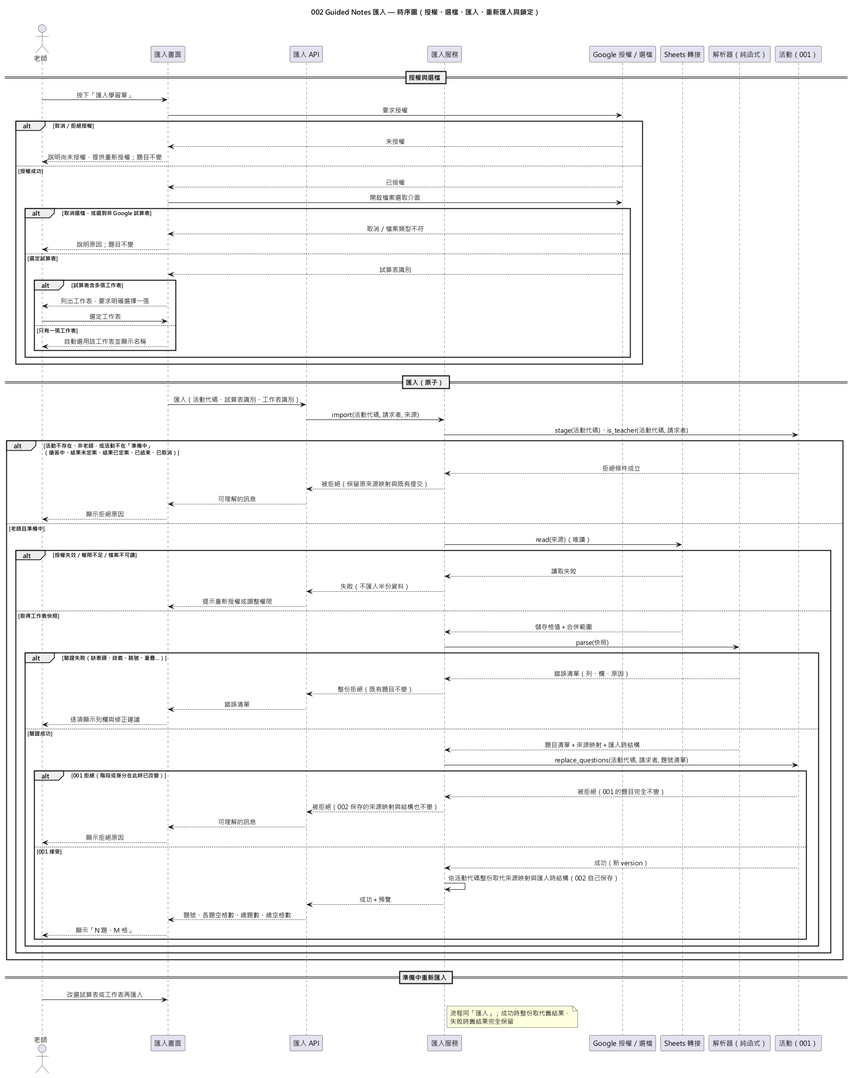
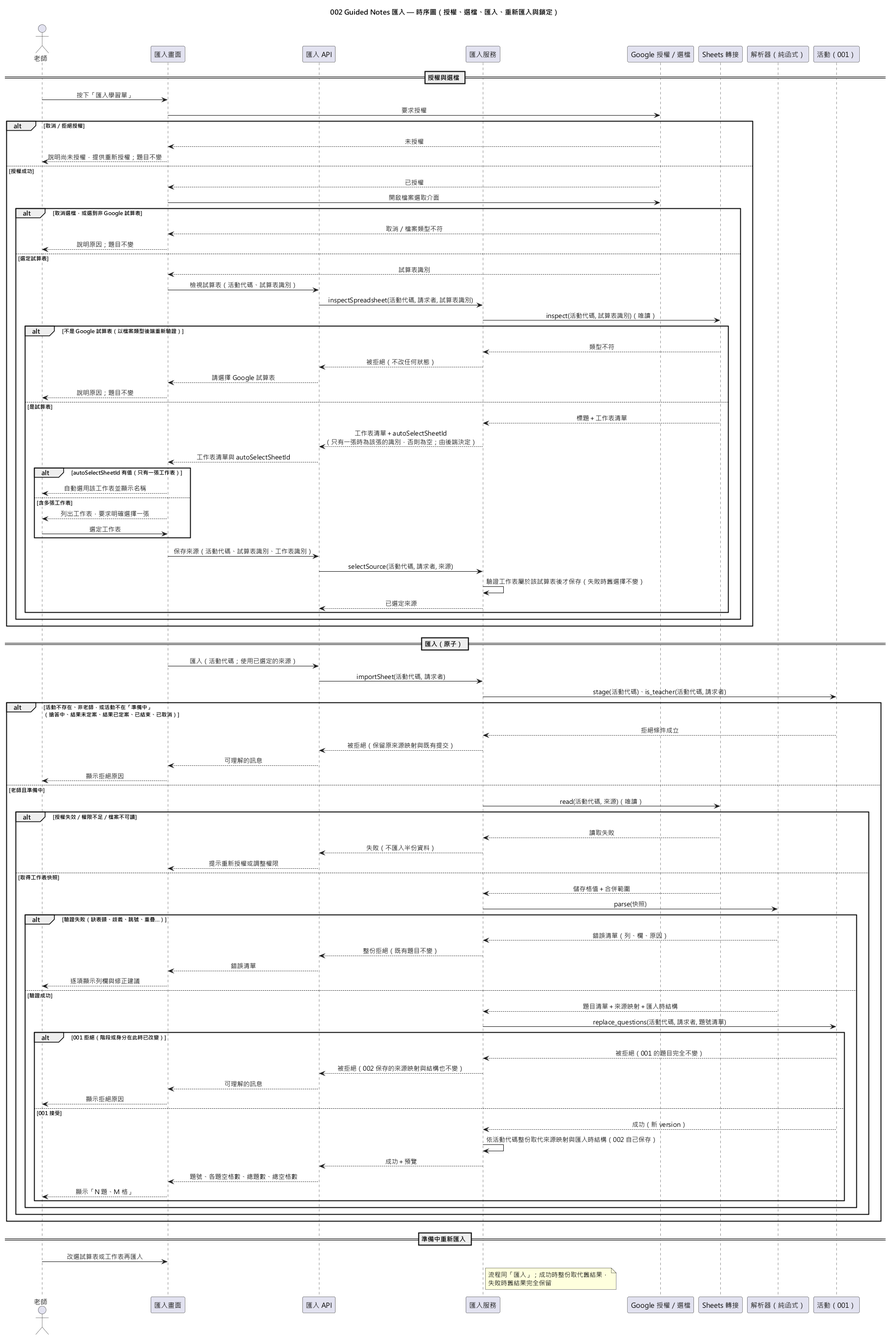
docs: 002 依 analyze 結果修正任務、契約與圖表（autoSelect、等相依、env-file、pytest 指令）(#6)

diff --git a/specs/002-guided-notes-import/tasks.md b/specs/002-guided-notes-import/tasks.md
@@ -25,7 +25,7 @@ description: "002-guided-notes-import 任務清單"
 - **應用層**：`src/lecture_quiz/app/guided_notes_import/`。
 - **轉接層**：`src/lecture_quiz/adapters/google/`、`src/lecture_quiz/adapters/web/guided_notes_import.py`、`static/js/import.js`。
 
-**⚠ 骨架凍結**（見 [plan.md](plan.md)「相依與時程」）：jacky0407 的骨架 PR 合併前，002 **不得**建立 `pyproject.toml`、`main.py`、`src/`。T001 是整份清單的前置關卡。
+**⚠ 骨架凍結**（見 [plan.md](plan.md)「相依與時程」）：jacky0407 的骨架 PR 合併前，002 **不得**建立 `pyproject.toml`、`main.py`、`src/`；且 001 的活動建立、老師 token、`replace_questions`、開輪與取消完成之前也不開工（2026-11-22 決定：等相依完成再開始，不以 Fake 先行）。T001 是整份清單的前置關卡。
 
 **⚠ 共用檔案追加約定**：`main.py` 只加一行 router；`teacher.html` 只加一個區塊；`pyproject.toml` 相依追加在最後；`docs/alignment.md` 只追加在最後；`tests/conftest.py` 只追加 fixture 與參數，不改 001 既有簽章的預設行為。
 
@@ -46,9 +46,9 @@ description: "002-guided-notes-import 任務清單"
 
 **Purpose**: 確認骨架就緒，追加相依與目錄
 
-- [ ] T001 **前置關卡**：確認 001 的骨架 PR 已合併到 `main`，且 002 分支已從 main 接續；檢查 `pyproject.toml`（含 Ruff、mypy 設定）、`src/lecture_quiz/{core,app,adapters}/`、`src/lecture_quiz/main.py` 的 `create_app`、`tests/conftest.py`、`tests/architecture/test_core_is_pure.py` 都存在。任一項缺少就**停止並回報**，不自行建立（骨架凍結）。
+- [ ] T001 **前置關卡（等相依完成再開始）**：確認以下兩項都已完成，在 `main` 或 002 所接續的 001 分支上都可以，**未完成就停止並回報，不開工、不自行建立**：(1) 001 的骨架 PR（目前為 #14）已合併，且 002 分支已從該基底接續；(2) 001 的 `ActivityService` 已實作 002 契約測試與真實驗證會用到的功能：建立活動與老師 token（001 US1）、`replace_questions`（001 tasks T043 對應的實作）、開輪與取消（001 US3、US4，US6 測試需要）。骨架檢查： `pyproject.toml`（含 Ruff、mypy 設定）、`src/lecture_quiz/{core,app,adapters}/`、`src/lecture_quiz/main.py` 的 `create_app`、`tests/conftest.py`、`tests/architecture/test_core_is_pure.py` 都存在。任一項缺少就**停止並回報**，不自行建立（骨架凍結）。
 - [ ] T002 [P] 確認 `diagrams/002-guided-notes-import-{component,class,sequence}.puml` 與對應 PNG 都存在，且 PNG 不舊於 `.puml`；不符時先執行 `java -jar plantuml.jar "./diagrams/002-*.puml"`（原則 II）。
-- [ ] T003 在 `pyproject.toml` 相依列表**最後**追加 `google-api-python-client`、`google-auth`、`google-auth-oauthlib`（核心相依，不放選用 extra）；版本以 `pip index versions <套件>` 查證後釘選並記錄在 PR 描述，不憑記憶。註冊 pytest marker `real_google`，並讓預設 `addopts` 排除它（與 001 的 `perf` 並存）。
+- [ ] T003 在 `pyproject.toml` 相依列表**最後**追加 `google-api-python-client`、`google-auth`、`google-auth-oauthlib`（核心相依，不放選用 extra）；版本以 `pip index versions <套件>` 查證後釘選並記錄在 PR 描述，不憑記憶。註冊 pytest marker `real_google`，並讓預設 `addopts` 排除它：`addopts` 合併為單一表達式 `-m "not perf and not real_google"`（001 已有 `-m 'not perf'`；命令列再給 `-m` 會**覆蓋**它，所以指令一律用 `not real_google and not perf`）。
 - [ ] T004 [P] 建立套件與測試目錄，各放空的 `__init__.py`：`<core>/`、`<app>/`、`src/lecture_quiz/adapters/google/`、`tests/unit/core/guided_notes_import/`、`tests/unit/app/guided_notes_import/`、`tests/unit/adapters/google/`、`tests/contract/guided_notes_import/`、`tests/fixtures/`、`tests/real_google/`。
 - [ ] T005 [P] 在 `.env.example` **追加**五個空白設定：`GOOGLE_CLIENT_ID`、`GOOGLE_CLIENT_SECRET`、`GOOGLE_API_KEY`、`GOOGLE_APP_ID`、`OAUTH_REDIRECT_URI`（註解寫明本機固定值 `http://localhost:8000/api/oauth/callback`）；確認 `.gitignore` 已排除 `.env`。
 
@@ -82,7 +82,7 @@ description: "002-guided-notes-import 任務清單"
 - [ ] T012 [P] 在 `<app>/store.py` 建立 `ImportStore`：依活動代碼為 key 的 `sessions`、`selections`、`records`、`locks`（每個活動一把 `asyncio.Lock`，與 001 活動鎖分開）；只在記憶體，不持久化（原則 VII）。
 - [ ] T013 在 `<app>/messages.py` 建立固定中文訊息對照表（每個 `ImportRejection` 一則，`IssueKind` 的修正建議於 T053 補齊），儲存格引用截斷在 40 字元；在 `tests/unit/app/guided_notes_import/test_messages.py` 測試每個代碼都有訊息，且訊息不含 token、授權碼、`state`、client secret、檔案路徑、堆疊字樣（FR-022、SC-005；`Edge: 輸入驗證失敗`）。（依賴 T010）
 - [ ] T014 [P] 建立 `tests/unit/app/guided_notes_import/fakes.py`：`FakeAuthGateway`、`FakeSheetsReader`（可注入快照、授權狀態、各種拒絕）、`FakeActivityGateway`（行為依 001 契約：`stage`、`is_teacher`、`replace_questions` 只允許老師在準備中、成功回傳新 `version`、被拒時題目不變；可注入「解析後、寫入前階段改變」）。檔頭標明為測試替身。
-- [ ] T015 [P] 在 `<google>/config.py` 讀取五個環境變數，**空字串視為未設定**，缺任何一項時匯入相關操作回 `GOOGLE_NOT_CONFIGURED`，不退回離線路徑、不假裝成功；授權範圍常數（`drive.file`）與 `state` 有效期限各只定義在這個檔案。在 `tests/unit/adapters/google/test_config.py` 測試：缺值、空字串、全部齊備三種情況。
+- [ ] T015 [P] 在 `<google>/config.py` 讀取五個環境變數，**空字串視為未設定**，缺任何一項時匯入相關操作回 `GOOGLE_NOT_CONFIGURED`，不退回離線路徑、不假裝成功；`config.py` 只讀 `os.environ`，`.env` 由啟動指令載入（`uvicorn ... --env-file .env`，`uvicorn[standard]` 內含 python-dotenv；實作時以已安裝版本的 `uvicorn --help` 確認此選項）；授權範圍常數（`drive.file`）與 `state` 有效期限各只定義在這個檔案。在 `tests/unit/adapters/google/test_config.py` 測試：缺值、空字串、全部齊備三種情況。
 - [ ] T016 擴充 `tests/conftest.py`（只追加）：`make_app` 增加選用參數 `auth_gateway`、`sheets_reader`（預設為 Fake），讓契約測試使用 001 的真實 `ActivityService`、`teacher` fixture 與 `FakeClock`，只替換 Google 相關連接埠。（依賴 T014）
 
 **Checkpoint**: 型別、連接埠、Fake 與測試輔助就緒，可以開始 User Story
@@ -100,31 +100,31 @@ description: "002-guided-notes-import 任務清單"
 > **NOTE: Write these tests FIRST, ensure they FAIL before implementation**
 
 - [ ] T017 [P] [US1] 在 `tests/unit/adapters/google/test_auth.py` 測試 `GoogleAuthGateway`（以 `FakeClock` 與假的 token 交換）：`state` 只能用一次、超過有效期限失敗、不符或重複使用時**不交換 token** 並導回 `auth=error`；使用者取消或拒絕 → `auth=denied`；token 只在記憶體、不出現在任何回傳值或日誌（`Scenario: US1-AS3`、`US1-AS4`）。
-- [ ] T018 [P] [US1] 在 `tests/unit/adapters/google/test_sheets_inspect.py` 用 `HttpMockSequence`（手寫回應 JSON，標明手寫）測試 `inspect`：先以 Drive `mimeType` 判斷，非 Google 試算表（Google 文件、PDF、XLSX）→ `NOT_A_SPREADSHEET`；是試算表才以欄位遮罩 `properties.title,sheets.properties(sheetId,title,hidden,gridProperties)` 取得工作表清單；多張與單張兩種（`Scenario: US1-AS1`、`US1-AS2`、`US1-AS6`）。
+- [ ] T018 [P] [US1] 在 `tests/unit/adapters/google/test_sheets_inspect.py` 用 `HttpMockSequence`（手寫回應 JSON，標明手寫）測試 `inspect`：先以 Drive `mimeType` 判斷，非 Google 試算表（Google 文件、PDF、XLSX）→ `NOT_A_SPREADSHEET`；是試算表才以欄位遮罩 `properties.title,sheets.properties(sheetId,title,hidden,gridProperties)` 取得工作表清單；多張與單張兩種，並驗證 `SpreadsheetInfo` 能提供工作表數量判斷所需資料（`Scenario: US1-AS1`、`US1-AS2`、`US1-AS6`）。
 - [ ] T019 [P] [US1] 在 `tests/unit/adapters/google/test_errors.py` 測試 `HttpError` → `ImportRejection` 對應：401 → `AUTH_EXPIRED`、403／404 → `PERMISSION_DENIED`、429／逾時／5xx → `READ_FAILED`；對應結果的訊息不含憑證與內部細節（`Scenario: US1-AS4`；`Edge: 選檔後檔案消失或失去權限`）。
-- [ ] T020 [P] [US1] 在 `tests/unit/app/guided_notes_import/test_service_source.py` 以 Fake 連接埠測試：`inspect_spreadsheet` 不改任何狀態；`select_source` 驗證 `sheet_id` 屬於該試算表後才保存、失敗時舊的選擇不變；沒有授權 → `NOT_AUTHORIZED`；取消選檔（沒有任何呼叫）不留下半途來源；授權在流程中途失效時，已選來源保留、重新授權後可直接重試（`Scenario: US1-AS1`、`US1-AS3`、`US1-AS4`、`US1-AS5`；`Edge: 授權在流程中途失效`）。
-- [ ] T021 [P] [US1] 在 `tests/contract/guided_notes_import/test_auth_source_api.py` 以 `TestClient` 依 [contracts/http-api.md](contracts/http-api.md) 驗證端點 #1～#6 與 `/oauth/callback`：狀態碼、回應形狀與 302 導回 `auth=ok|denied|error`；`picker-config` 帶 `Cache-Control: no-store` 且只限該活動老師；學生 token、其他活動老師、無 token 一律被拒；`GOOGLE_NOT_CONFIGURED` → 503 且訊息不含變數名稱；**路由表中沒有任何本機檔案上傳端點**（FR-005，`Scenario: US1-AS6`）。
+- [ ] T020 [P] [US1] 在 `tests/unit/app/guided_notes_import/test_service_source.py` 以 Fake 連接埠測試：`inspect_spreadsheet` 不改任何狀態，且 `auto_select_sheet_id` 在恰好一張工作表時為該張識別、兩張以上為 `None`、零張時回 `SHEET_NOT_FOUND`（`Scenario: US1-AS2`，單一工作表自動選用的判斷在後端）；`select_source` 驗證 `sheet_id` 屬於該試算表後才保存、失敗時舊的選擇不變；沒有授權 → `NOT_AUTHORIZED`；取消選檔（沒有任何呼叫）不留下半途來源；授權在流程中途失效時，已選來源保留、重新授權後可直接重試（`Scenario: US1-AS1`、`US1-AS3`、`US1-AS4`、`US1-AS5`；`Edge: 授權在流程中途失效`）。
+- [ ] T021 [P] [US1] 在 `tests/contract/guided_notes_import/test_auth_source_api.py` 以 `TestClient` 依 [contracts/http-api.md](contracts/http-api.md) 驗證端點 #1～#6（#2 即 `/oauth/callback`）：狀態碼、回應形狀（含 #5 的 `autoSelectSheetId`：單張為該張的 `sheetId`、多張為 `null`）與 302 導回 `auth=ok|denied|error`；`picker-config` 帶 `Cache-Control: no-store` 且只限該活動老師；學生 token、其他活動老師、無 token 一律被拒；`GOOGLE_NOT_CONFIGURED` → 503 且訊息不含變數名稱；**路由表中沒有任何本機檔案上傳端點**（FR-005，`Scenario: US1-AS6`）。
 
 ### Implementation for User Story 1
 
 **應用層**
 
-- [ ] T022 [US1] 在 `<app>/service.py` 建立 `ImportService`（建構子注入 `AuthGateway`、`SheetsReader`、`ActivityGateway`、`ImportStore`、`Clock`），實作 `start_auth`、`inspect_spreadsheet`、`select_source`：每個入口先以 `stage(code)`、`is_teacher(code, requester)` 判斷（錯誤代碼依 research R8），`select_source` 驗證 `sheet_id` 屬於該試算表才寫入 `selections`。（依賴 T010～T014）
+- [ ] T022 [US1] 在 `<app>/service.py` 建立 `ImportService`（建構子注入 `AuthGateway`、`SheetsReader`、`ActivityGateway`、`ImportStore`、`Clock`），實作 `start_auth`、`inspect_spreadsheet`（計算 `auto_select_sheet_id`）、`select_source`：每個入口先以 `stage(code)`、`is_teacher(code, requester)` 判斷（錯誤代碼依 research R8），`select_source` 驗證 `sheet_id` 屬於該試算表才寫入 `selections`。（依賴 T010～T014）
 
 **轉接層**
 
 - [ ] T023 [P] [US1] 在 `<google>/errors.py` 實作 `HttpError`／逾時 → `ImportRejection` 的對應（T019 的規則）。
 - [ ] T024 [US1] 在 `<google>/auth.py` 實作 `GoogleAuthGateway`：授權碼流程（`google-auth-oauthlib`）、一次性且有期限的 `state`、token 只存記憶體（`ImportStore.sessions`）、`picker_credentials` 只回短效 `drive.file` token；不記錄 token、授權碼、`state`、client secret。（依賴 T015、T023）
 - [ ] T025 [P] [US1] 在 `<google>/sheets_reader.py` 實作 `GoogleSheetsReader.inspect`：Drive `files.get` 取 `mimeType`，再以 `spreadsheets.get` 與欄位遮罩取工作表清單；以 `asyncio.to_thread` 呼叫同步的 Google 程式庫；只用讀取方法（FR-023）。
-- [ ] T026 [US1] 在 `<web>` 實作端點 #1～#6 與 `/oauth/callback`、錯誤轉換（依 http-api 的錯誤碼與狀態碼表，訊息取自 `messages.py`）與請求日誌（只記活動代碼、端點名稱、結果代碼）；在 `main.py` **只加一行** `include_router`。（依賴 T022、T024、T025）
+- [ ] T026 [US1] 在 `<web>` 實作端點 #1～#6（含 #2 `/oauth/callback`）、錯誤轉換（依 http-api 的錯誤碼與狀態碼表，訊息取自 `messages.py`）與請求日誌（只記活動代碼、端點名稱、結果代碼）；在 `main.py` **只加一行** `include_router`。（依賴 T022、T024、T025）
 
 **前端**
 
-- [ ] T027 [US1] 在 `teacher.html` **只加一個**「匯入學習單」區塊，並建立 `static/js/import.js`：按鈕 → `auth/start` → 導向 Google → 回來後依 `?auth=ok|denied|error` 顯示狀態與重新授權入口 → `picker-config` → Google Picker（只允許 Google 試算表 MIME，取消時維持原狀）→ `inspect` → 只有一張工作表時自動 `PUT source` 並顯示名稱，多張時要求老師明確選一張。所有後端與試算表來的文字一律以 `textContent` 輸出。
+- [ ] T027 [US1] 在 `teacher.html` **只加一個**「匯入學習單」區塊，並建立 `static/js/import.js`：按鈕 → `auth/start` → 導向 Google → 回來後依 `?auth=ok|denied|error` 顯示狀態與重新授權入口 → `picker-config` → Google Picker（只允許 Google 試算表 MIME，取消時維持原狀）→ `inspect` → `autoSelectSheetId` 有值時自動 `PUT source` 並顯示名稱，為 `null` 時要求老師明確選一張；前端不自己數工作表。所有後端與試算表來的文字一律以 `textContent` 輸出。
 
 **真實驗證里程碑**
 
-- [ ] T028 [US1] **里程碑 0（待驗證假設 1）**：以真實 Google 帳號與一份真實試算表，依 [quickstart.md](quickstart.md) 前置條件設定好 `.env`，用 `uvicorn` 啟動後走完「授權 → Picker 選檔 → `inspect`」，確認 `drive.file` 足以讀取 Picker 選到的試算表。把日期、操作與結果填入 quickstart 紀錄表；若讀取失敗，依 [research.md](research.md) R1 的 fallback 評估改用敏感範圍，並在 plan「待真實驗證的假設」註明；**未做之前不得宣稱授權範圍成立**。（依賴 T026、T027）
+- [ ] T028 [US1] **里程碑 0（待驗證假設 1）**：以真實 Google 帳號與一份真實試算表，依 [quickstart.md](quickstart.md) 前置條件設定好 `.env`，用 `uvicorn lecture_quiz.main:app --host 127.0.0.1 --port 8000 --env-file .env` 啟動後走完「授權 → Picker 選檔 → `inspect`」，確認 `drive.file` 足以讀取 Picker 選到的試算表。把日期、操作與結果填入 quickstart 紀錄表；若讀取失敗，依 [research.md](research.md) R1 的 fallback 評估改用敏感範圍，並在 plan「待真實驗證的假設」註明；**未做之前不得宣稱授權範圍成立**。（依賴 T026、T027）
 
 **Checkpoint**: 老師可以授權、選檔並選定工作表；失敗時題目不變
 
@@ -288,12 +288,12 @@ description: "002-guided-notes-import 任務清單"
 - [ ] T066 [P] 在 `tests/unit/core/guided_notes_import/test_parse_scale.py` 測試 50 題、數百列學習單的解析結果正確（SC-006 的前提；不以 mock 的耗時冒充真實耗時，真實秒數在 T071 記錄）。
 - [ ] T067 [P] 在 `tests/integration/test_import_two_layouts.py` 以版面 A、版面 B（原則 III、SC-003）走入口：`TestClient` → 真實 `GoogleSheetsReader`（`HttpMockSequence` 餵入手寫的 `spreadsheets.get` 回應 JSON，標明手寫）→ `parse` → 001 `ActivityService`，驗證兩份版面都得到正確題數、格數與答案位置、整體移位後結果一致（`Scenario: US2-AS2`、`US3-AS1`、`US5-AS1`）。
 - [ ] T068 [P] 建立 `scripts/capture_real_fixture.py`：把真實 `spreadsheets.get` 回應去識別化（刪除標題、帳號、檔案 ID）後存成 `tests/fixtures/real/*.json`；憑證與輸出只在本機，不入版控的內容不得提交。
-- [ ] T069 [P] 建立 `tests/real_google/test_real_import.py`，標記 `@pytest.mark.real_google`，明確指定真實轉接器（不跟隨預設的 Fake）；缺少任何 Google 環境變數時**明確失敗**並說明缺什麼，不跳過、不退回離線路徑。預設 `pytest` 不執行它。
-- [ ] T070 在 [quickstart.md](quickstart.md) B 區補一步「選只有一張工作表的試算表 → 自動選用並顯示名稱」（`Scenario: US1-AS2`，前端行為無自動化測試，以人工驗證涵蓋），並把 US1-AS5「選檔取消」對應到 B-3。
+- [ ] T069 [P] 建立 `tests/real_google/test_real_import.py`，標記 `@pytest.mark.real_google`，明確指定真實轉接器（不跟隨預設的 Fake）；缺少任何 Google 環境變數時**明確失敗**並說明缺什麼，不跳過、不退回離線路徑；pytest 不會自動讀 `.env`，環境變數由執行者在 shell 設定。預設 `pytest` 不執行它。
+- [ ] T070 在 [quickstart.md](quickstart.md) B 區補一步「選只有一張工作表的試算表 → 自動選用並顯示名稱」（`Scenario: US1-AS2`；自動選用的判斷已由 T020、T021 自動測試，這裡人工確認畫面顯示名稱），並把 US1-AS5「選檔取消」對應到 B-3。
 - [ ] T071 **真實路徑驗證（SC-009，合併前必做）**：EricC430 以兩份版面不同的真實 Google 試算表，依 quickstart B-1～B-13 各走一次，記錄日期、操作、結果數字與 SC-006 的「確認工作表到看見預覽」秒數，填入 quickstart 紀錄表；憑證只在本機，不貼進 repo、Issue、PR。（依賴 T074）
 - [ ] T072 T071 通過後執行 T068 擷取兩份版面的真實回應，新增「JSON → 轉接層 → 解析」的入口測試，確認 `GridRange` 結束索引「不含」的假設，並把假設 1～4 的驗證結果寫回 plan「待真實驗證的假設」。擷取之前不得宣稱入口路徑已驗證。（依賴 T071）
-- [ ] T073 程式碼與圖表一致性驗證：逐一比對 `diagrams/002-guided-notes-import-{component,class,sequence}.puml` 與實作（`ImportService` 的方法、`AuthGateway`／`SheetsReader` 的方法、`ImportRecord` 的欄位——類別圖目前寫 `sourceMapping`，data-model 與實作用 `blanks`，需同步；`IssueKind` 的值）。有差異時先更新圖表並重新轉出 PNG（原則 II）。
-- [ ] T074 執行全部自動化測試 `pytest -m "not real_google"`，並以 `-v` 確認核心、應用層、轉接層（`HttpMockSequence`）、HTTP 契約、架構純度、日誌各自有項目、沒有任何一類是 0 筆；記錄日期、指令與通過／失敗／略過數字（原則 VI）。
+- [ ] T073 程式碼與圖表一致性驗證：逐一比對 `diagrams/002-guided-notes-import-{component,class,sequence}.puml` 與實作（`ImportService` 的方法、`AuthGateway`／`SheetsReader` 的方法、`ImportRecord` 的欄位、`SpreadsheetInfo.autoSelectSheetId`、時序圖的 inspect／`PUT source`／匯入步驟；`IssueKind` 的值。類別圖與時序圖已於 2026-11-22 依 plan 同步，這裡驗證實作沒有再偏離）。有差異時先更新圖表並重新轉出 PNG（原則 II）。
+- [ ] T074 執行全部自動化測試 `pytest -m "not real_google and not perf"`，並以 `-v` 確認核心、應用層、轉接層（`HttpMockSequence`）、HTTP 契約、架構純度、日誌各自有項目、沒有任何一類是 0 筆；記錄日期、指令與通過／失敗／略過數字（原則 VI）。
 - [ ] T075 執行 `ruff check .`、`ruff format --check .`、`mypy src`，全部通過並記錄結果（技術限制 2）。
 - [ ] T076 由非實作者（jacky0407）依 [quickstart.md](quickstart.md) B 區做人工驗證，記錄日期、每一步操作與結果於 quickstart 紀錄表並簽名（原則 VI）。
 - [ ] T077 追蹤 001 的開發用 seed API（`adapters/web/dev_seed.py`、`LECTURE_QUIZ_DEV_SEED`、`tests/integration/test_dev_seed.py`、前端「放入假題目」按鈕）：依 001 plan 在 002 合併後的第一個 PR 移除；因檔案屬 001，先與 jacky0407 協調是在本 PR 一併移除還是另開 PR，並在 PR 描述記錄結論。
@@ -356,7 +356,7 @@ Task: "<core>/headers.py（T036）"
 ### Incremental Delivery
 
 1. 加 US4（缺陷拒絕）→ 加 US5（預覽與重新匯入，005 需要）→ 加 US6（鎖定）。
-2. 每個故事完成後都跑 `pytest -m "not real_google"`，不得破壞前一個故事。
+2. 每個故事完成後都跑 `pytest -m "not real_google and not perf"`，不得破壞前一個故事。
 3. 最後做 Polish 與真實路徑驗證；真實驗證通過後才擷取真實 fixture。
 
 ### Parallel Team Strategy
@@ -371,7 +371,7 @@ Task: "<core>/headers.py（T036）"
 | Scenario | 對應測試任務 |
 |---|---|
 | US1-AS1 | T018、T020、T067（人工 T071） |
-| US1-AS2 | T018（自動選用為前端行為，人工 T070、T071） |
+| US1-AS2 | T018、T020、T021（`autoSelectSheetId` 由後端決定；前端只依它呼叫 `PUT source` 並顯示名稱，該顯示部分以人工 T070、T071 涵蓋） |
 | US1-AS3 | T017、T020、T021 |
 | US1-AS4 | T017、T019、T020 |
 | US1-AS5 | T020（人工 T070、T071） |

diff --git a/specs/002-guided-notes-import/quickstart.md b/specs/002-guided-notes-import/quickstart.md
@@ -6,7 +6,7 @@
 
 ## 前置條件
 
-1. 001 的骨架 PR（jacky0407 計畫另開；截至 2026-11-22 尚未建立）已合併到 main，002 分支已從 main 接續（見 [plan.md](plan.md)「相依與時程」）。
+1. 001 的骨架 PR（#14，截至 2026-11-22 尚未合併）已合併，且 001 的活動建立、老師 token、`replace_questions`、開輪與取消已完成（在 main 或 002 接續的 001 分支上皆可）；002 分支已從該基底接續（見 [plan.md](plan.md)「相依與時程」）。
 2. Python 3.11 以上，已依 `pyproject.toml` 安裝相依（含開發相依）。
 3. **Google Cloud 一次性設定**（只有真實路徑驗證需要，自動化測試不需要；約 10～15 分鐘）。
 
@@ -17,7 +17,7 @@
    > | 授權的重新導向 URI | `http://localhost:8000/api/oauth/callback` |
    > | `.env` 的 `OAUTH_REDIRECT_URI` | 與上一列**完全相同**（含 `http`、埠號、路徑，結尾不加斜線） |
    > | 瀏覽器開啟系統的網址 | `http://localhost:8000/teacher.html`（**不要用 `127.0.0.1`**，否則瀏覽器儲存的老師身分與回呼網址不是同一個來源，授權回來後會找不到老師身分） |
-   > | 啟動後端的指令 | `uvicorn lecture_quiz.main:app --host 127.0.0.1 --port 8000`（確切模組路徑以 001 骨架為準） |
+   > | 啟動後端的指令 | `uvicorn lecture_quiz.main:app --host 127.0.0.1 --port 8000 --env-file .env`（確切模組路徑以 001 骨架為準；`--env-file` 才會把 `.env` 載入環境變數，`uvicorn[standard]` 內含所需的 python-dotenv，以已安裝版本的 `uvicorn --help` 確認） |
    >
    > 依 [Google 官方文件](https://developers.google.com/identity/protocols/oauth2/web-server)：重新導向 URI 一般要用 HTTPS，但 **localhost 是例外，可以用 `http`**；URI 要與設定**完全一致**（`http`／`https`、大小寫、結尾斜線）；網域不得是原始 IP（localhost 例外）。
 
@@ -34,22 +34,22 @@
       - 建立後會顯示**用戶端 ID**與**用戶端密鑰**：分別是 `GOOGLE_CLIENT_ID`、`GOOGLE_CLIENT_SECRET`。密鑰只貼到本機 `.env`，**不要貼到聊天、Issue、PR 或任何追蹤的檔案**。
    5. **建立 API 金鑰**（Picker 用）：憑證 → 建立憑證 → API 金鑰，這就是 `GOOGLE_API_KEY`。建議先只把「API 限制」設為 **Google Picker API**，**先不要設網站（HTTP 參照網址）限制**：Picker 會在 Google 網域的畫面裡載入，網站限制設錯會出現「API developer key is invalid」。真實驗證通過後若要再收緊，再加限制並重新驗證（此項列入 [plan.md](plan.md)「待真實驗證的假設」）。
    6. 若授權時看到「這個應用程式未經 Google 驗證」：測試中的應用程式正常會出現，按「進階」→「前往（不安全）」即可；`drive.file` 是非敏感範圍，不需要送審。
-4. 複製 `.env.example` 為 `.env`（`.env` 已被 `.gitignore` 排除），填入 `GOOGLE_CLIENT_ID`、`GOOGLE_CLIENT_SECRET`、`GOOGLE_API_KEY`、`GOOGLE_APP_ID`、`OAUTH_REDIRECT_URI`。**任何一項是空字串都視為未設定**，匯入端點會明確回 `GOOGLE_NOT_CONFIGURED`。
+4. 複製 `.env.example` 為 `.env`（`.env` 已被 `.gitignore` 排除），填入 `GOOGLE_CLIENT_ID`、`GOOGLE_CLIENT_SECRET`、`GOOGLE_API_KEY`、`GOOGLE_APP_ID`、`OAUTH_REDIRECT_URI`；啟動時要加 `--env-file .env`（見上表），否則程式讀不到。**任何一項是空字串都視為未設定**，匯入端點會明確回 `GOOGLE_NOT_CONFIGURED`。
 
 ## A. 自動化驗證（預設不呼叫真實 Google）
 
-在 repo 根目錄執行（指令定案於 001 的 research R3 與憲章技術限制 2）：
+在 repo 根目錄執行（`-m` 要同時排除 `perf`，因為命令列的 `-m` 會覆蓋 001 預設的 `addopts`；指令定案於 001 的 research R3 與憲章技術限制 2）：
 
 ```text
 ruff check .
 ruff format --check .
 mypy src
-pytest -m "not real_google"
+pytest -m "not real_google and not perf"
 ```
 
 預期：全部通過；`pytest` 的結果數字要記錄到下方紀錄表。測試分類與對應見 [research.md](research.md) R9；每個測試的 docstring 第一行標明 `Scenario: USn-ASm` 或 `Edge: <名稱>`，tasks 階段會產生對照表。
 
-**檢查測試真的跑到東西**：`pytest -m "not real_google" -v` 的輸出要看到核心解析、應用層、轉接層（`HttpMockSequence`）、HTTP 契約、架構純度測試各自有項目；某一類是 0 筆就是測試壞了，不是通過。
+**檢查測試真的跑到東西**：`pytest -m "not real_google and not perf" -v` 的輸出要看到核心解析、應用層、轉接層（`HttpMockSequence`）、HTTP 契約、架構純度測試各自有項目；某一類是 0 筆就是測試壞了，不是通過。
 
 ## B. 真實路徑驗證（SC-009，合併前必做）
 
@@ -70,7 +70,7 @@ pytest -m "not real_google"
 | 2 | 再按一次，同意授權 | 回到頁面，顯示已授權 | US1-AS1 |
 | 3 | 在選檔畫面按取消 | 維持原狀，沒有留下半途來源 | US1-AS5 |
 | 4 | 選一份 Google 文件或 PDF（若 Picker 允許）| 被拒並說明「請選擇 Google 試算表」 | US1-AS6、FR-005 |
-| 5 | 選版面 2 的試算表 | 列出工作表，要求明確選一張 | US1-AS1 |
+| 5 | 選版面 2 的試算表 | 列出工作表，要求明確選一張（`inspect` 的 `autoSelectSheetId` 為 `null`） | US1-AS1 |
 | 6 | 選正確的那張工作表，按匯入 | 預覽「4 題、6 格」與每題格數；記錄從按下確認到看見預覽的秒數 | US3-AS1、US5-AS1、SC-006 |
 | 7 | 重新整理頁面 | 預覽恢復 | US5 |
 | 8 | 改選版面 1 再匯入 | 整份取代，結果相同、無舊題目殘留 | US5-AS2、SC-003 |
@@ -95,7 +95,7 @@ pytest -m "not real_google"
 | | | `ruff check .` | | |
 | | | `ruff format --check .` | | |
 | | | `mypy src` | | |
-| | | `pytest -m "not real_google"` | passed／failed／總數： | |
+| | | `pytest -m "not real_google and not perf"` | passed／failed／總數： | |
 | | | 真實路徑 B-1～B-13（版面 1、版面 2） | | |
 
 - **實作者**：EricC430。**非實作者人工驗證**：jacky0407（執行 B 區並簽名，記錄日期與結果）。

diff --git a/specs/002-guided-notes-import/plan.md b/specs/002-guided-notes-import/plan.md
@@ -87,7 +87,7 @@
 ## 相依與時程
 
 - **相依 001**：`ActivityGateway`（`stage`、`is_teacher`、`replace_questions`）契約已對齊（Issue #6）。001 尚在 `feature/5-001-activity-session` 分支，未合併。
-- **骨架 PR 凍結**（jacky0407 於 Issue #5 約定，2026-11-21 留言）：骨架 PR 計畫命名為 `chore/5-project-skeleton`，但**截至 2026-11-22 遠端沒有這個分支，也沒有對應 PR**（001 分支也還沒有 `pyproject.toml`、`src/`），實際分支名稱與時間以 jacky0407 為準。骨架 PR 合併前，002 **不得**建立 `pyproject.toml`、`main.py`、`src/`；合併後從 main 接續。因此本 plan 只產出文件，不產生程式碼。`/speckit-implement` 前要先確認骨架 PR 已合併。
+- **骨架 PR 凍結**（jacky0407 於 Issue #5 約定，2026-11-21 留言）：骨架 PR 計畫命名為 `chore/5-project-skeleton`，但**截至 2026-11-22 遠端沒有這個分支，也沒有對應 PR**（001 分支也還沒有 `pyproject.toml`、`src/`），實際分支名稱與時間以 jacky0407 為準。骨架 PR 合併前，002 **不得**建立 `pyproject.toml`、`main.py`、`src/`；合併後從 main 接續。因此本 plan 只產出文件，不產生程式碼。**2026-11-22 更新**：骨架 PR 已開為 #14（尚未合併），001 的 PR 為草稿 #15。決定**等相依完成再開始實作**：`/speckit-implement` 前要確認骨架 PR 已合併，且 001 的活動建立、老師 token、`replace_questions`、開輪與取消已完成（在 main 或 001 分支皆可）；骨架 PR 只涵蓋 001 的 T001～T022，不含這些功能（tasks T001）。
 - **共用檔案約定**：`main.py` 只加一行 router；`teacher.html` 只加一個區塊；`pyproject.toml` 相依追加在最後；`docs/alignment.md` 只追加在最後。
 - **001 的開發用 seed API**（`LECTURE_QUIZ_DEV_SEED=1`）：001 的 plan 規定「002 合併後的第一個 PR 移除」。tasks 要包含確認或移除這個 API 的任務（與 jacky0407 協調，因為檔案屬 001）。
 - **後續**：005 依 `ImportRecord` 與同一個 `AuthGateway`／`SheetsReader` 寫回。
@@ -164,7 +164,16 @@ tests/
 | `AuthGateway` 補上 `startAuthorization`、`completeAuthorization`、`isAuthorized`、`pickerCredentials` | OAuth 授權碼流程與 Picker 設定（research R1） |
 | `SheetsReader` 補上 `inspect`，`read` 帶活動代碼 | 授權依活動代碼保存 |
 
-組件圖與時序圖不需變動：組件圖已列出授權、選檔、Sheets 三個轉接元件；時序圖已涵蓋授權、選檔、匯入、重新匯入與鎖定。實作完成後仍須做「程式碼與圖表一致性驗證」（原則 II）。
+2026-11-22 `/speckit-analyze` 後再同步（類別圖、時序圖 `.puml` 與 PNG 同一個 commit；組件圖不需變動，已列出授權、選檔、Sheets 三個轉接元件）：
+
+| 差異 | 原因 |
+|---|---|
+| 類別圖 `ImportService.import(code, requester, source)` 改為 `importSheet(code, requester)`，補 `getImportSummary` | 與契約一致：匯入使用已由 `PUT source` 記住的來源 |
+| 類別圖 `ParseResult`、`ImportRecord` 的 `sourceMapping` 改為 `blanks`，`ImportRecord` 補 `sheetTitle`、`questionNumbers` | 與資料模型一致 |
+| 類別圖 `SpreadsheetInfo` 補 `autoSelectSheetId` | 單一工作表自動選用由後端決定（FR-002） |
+| 時序圖補上「檢視試算表（inspect，後端以檔案類型重新驗證）」「`autoSelectSheetId` 分支」「保存來源（`PUT source`）」，匯入改為不帶來源識別 | 先前時序圖與契約的端點流程不符 |
+
+實作完成後仍須做「程式碼與圖表一致性驗證」（原則 II）。
 
 ## Complexity Tracking
 

diff --git a/specs/002-guided-notes-import/contracts/http-api.md b/specs/002-guided-notes-import/contracts/http-api.md
@@ -12,7 +12,7 @@
 | 2 | `GET /oauth/callback?code=…&state=…`（Google 導回） | — | `302` 導回 `/teacher.html?code=<活動代碼>&auth=ok\|denied\|error` | FR-001、FR-003 |
 | 3 | `GET /activities/{code}/import/auth/status` | — | `200 {"authorized": bool}` | FR-003 |
 | 4 | `GET /activities/{code}/import/picker-config` | — | `200 {"accessToken", "apiKey", "appId"}`，`Cache-Control: no-store` | FR-001 |
-| 5 | `POST /activities/{code}/import/source/inspect` | `{"spreadsheetId": str}` | `200 {"spreadsheetId", "title", "sheets": [{"sheetId": int, "title": str}]}` | FR-002、FR-005 |
+| 5 | `POST /activities/{code}/import/source/inspect` | `{"spreadsheetId": str}` | `200 {"spreadsheetId", "title", "sheets": [{"sheetId": int, "title": str}], "autoSelectSheetId": int \| null}` | FR-002、FR-005 |
 | 6 | `PUT /activities/{code}/import/source` | `{"spreadsheetId": str, "sheetId": int}` | `200 {"spreadsheetId", "sheetId", "sheetTitle"}` | FR-002 |
 | 7 | `POST /activities/{code}/import` | `{}`（使用 #6 記住的來源） | `200 ImportResult` | FR-015～FR-019、FR-027 |
 | 8 | `GET /activities/{code}/import` | — | `200 ImportResult \| {"imported": false}` | FR-017 |
@@ -20,8 +20,8 @@
 - **`ImportResult`**：`{"imported": true, "sheetTitle": str, "questionNumbers": [int], "blanksPerQuestion": {"<題號>": int}, "totalQuestions": int, "totalBlanks": int, "version": int}`。`version` 是 001 `replace_questions` 回傳的新版本。
 - **#2 回呼**是瀏覽器導向，不是 fetch；它以 `state` 找回活動代碼與老師身分，不需要 `Authorization` 標頭。`state` 只能用一次、有有效期限；不符、過期、重複使用都導回 `auth=error`，且**不交換 token**。
 - **#4**：access token 只含 `drive.file` 範圍，只回給該活動老師，且**不寫入日誌**。
-- **#5 inspect**：不改任何狀態；用來列出工作表。檔案不是 Google 試算表回 `NOT_A_SPREADSHEET`。
-- **#6**：只在驗證所選 `sheetId` 屬於該試算表之後才寫入；失敗時舊的選定來源不變。只有一張工作表時，前端自動呼叫它（FR-002）。
+- **#5 inspect**：不改任何狀態；用來列出工作表。檔案不是 Google 試算表回 `NOT_A_SPREADSHEET`。**`autoSelectSheetId` 由後端決定**：`sheets` 恰好一張時為該張的 `sheetId`，否則為 `null`（FR-002）。前端只依它行事，不自己數工作表。
+- **#6**：只在驗證所選 `sheetId` 屬於該試算表之後才寫入；失敗時舊的選定來源不變。前端在 `autoSelectSheetId` 有值時自動呼叫它，否則等老師明確選一張（FR-002）。
 - **#7**：流程與順序見 [research.md](../research.md) R6。成功時回傳 `ImportResult`；驗證失敗回 422 並附 `issues`。
 - **#8**：頁面重新整理後恢復預覽用；沒有匯入過回 `{"imported": false}`。
 

diff --git a/specs/002-guided-notes-import/data-model.md b/specs/002-guided-notes-import/data-model.md
@@ -50,7 +50,7 @@
 | 型別 | 欄位 | 說明 |
 |---|---|---|
 | `SourceRef` | `spreadsheet_id: str`、`sheet_id: int` | 來源識別（FR-002） |
-| `SpreadsheetInfo` | `spreadsheet_id`、`title: str`、`sheets: tuple[SheetInfo, ...]` | 檢視結果；`SheetInfo` 含 `sheet_id`、`title` |
+| `SpreadsheetInfo` | `spreadsheet_id`、`title: str`、`sheets: tuple[SheetInfo, ...]`、`auto_select_sheet_id: int \| None` | 檢視結果；`SheetInfo` 含 `sheet_id`、`title`。`auto_select_sheet_id` 由服務計算：`sheets` 恰好一張時為其 `sheet_id`，否則 `None`（FR-002） |
 | `SourceSelection` | `source: SourceRef`、`sheet_title: str` | 老師選定的來源；取消選檔不寫入 |
 | `ImportRecord` | `source: SourceRef`、`sheet_title: str`、`blanks: tuple[Blank, ...]`、`structure: StructureSnapshot`、`question_numbers: tuple[int, ...]` | 最後一次成功匯入；每次成功**整份取代**（FR-019、FR-024） |
 | `ImportPreview` | `question_numbers`、`blanks_per_question: Mapping[int, int]`、`total_questions`、`total_blanks` | 題組只算一題；總格數累計子空格（FR-017、FR-018） |

diff --git a/specs/002-guided-notes-import/research.md b/specs/002-guided-notes-import/research.md
@@ -233,7 +233,7 @@
 **決定**：
 
 - 沿用 001 的原生 JavaScript：`teacher.html` 只加一個「匯入學習單」區塊，邏輯放在 `static/js/import.js`（依 jacky0407 於 Issue #5 的約定）。
-- 流程：按鈕 → `auth/start` → 導向 Google → 回來後 `?auth=ok` → `picker-config` → Picker → `inspect`（取得工作表清單，只有一張就自動 `PUT source`）→ 老師選工作表 → `POST import` → 顯示預覽或錯誤清單。
+- 流程：按鈕 → `auth/start` → 導向 Google → 回來後 `?auth=ok` → `picker-config` → Picker → `inspect`（取得工作表清單與後端決定的 `autoSelectSheetId`，有值就自動 `PUT source`）→ 老師選工作表 → `POST import` → 顯示預覽或錯誤清單。
 - 所有後端或試算表來的文字一律用 `textContent`；錯誤清單用表格呈現（列、欄、原因、修正建議）。
 - 重新整理頁面時以 `GET .../import` 恢復「已匯入 N 題、M 格」的畫面。
 

diff --git a/specs/002-guided-notes-import/contracts/service-interfaces.md b/specs/002-guided-notes-import/contracts/service-interfaces.md
@@ -31,7 +31,7 @@
 | 方法 | 說明 |
 |---|---|
 | `start_auth(code, requester) -> Result[str]` | 先查階段與身分，再委派 `AuthGateway` |
-| `inspect_spreadsheet(code, requester, spreadsheet_id) -> Result[SpreadsheetInfo]` | 不改狀態 |
+| `inspect_spreadsheet(code, requester, spreadsheet_id) -> Result[SpreadsheetInfo]` | 不改狀態；`SpreadsheetInfo.auto_select_sheet_id` 在清單恰好一張時為該張識別，否則為 `None`（單一工作表自動選用的判斷在這裡，不在前端） |
 | `select_source(code, requester, source: SourceRef) -> Result[SourceSelection]` | 驗證 `sheet_id` 屬於該試算表後才保存；失敗不改舊選擇 |
 | `import_sheet(code, requester) -> ImportOutcome` | 持有該活動的匯入鎖；順序見 [research.md](../research.md) R6 |
 | `get_import_record(code) -> ImportRecord \| None` | **給 005 使用**：唯讀；回傳最後一次成功匯入的來源、來源映射與匯入時結構 |
